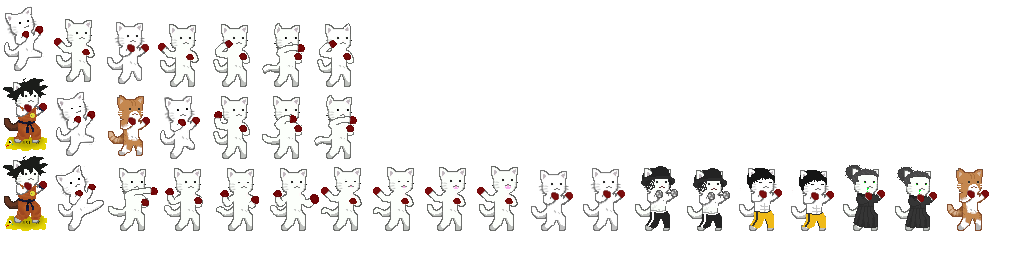
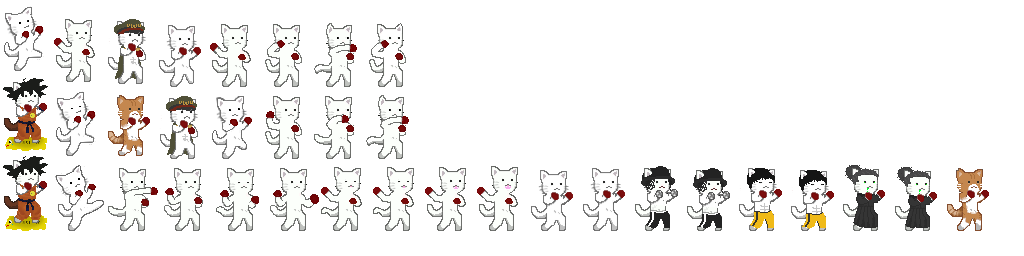
he cambiado cosas pero no se

diff --git a/server/src/main/java/game/Juego.java b/server/src/main/java/game/Juego.java
@@ -34,43 +34,50 @@ public class Juego {
                 }
             break;
             //PARA SABER EL PJ QUE SE SELECCIONA
-            case "goku":
-                if(cliente == partida.jugador1.session)
-                    partida.jugador1.send(new Mensaje("GOKU"));
-                else
-                    partida.jugador2.send(new Mensaje("GOKU"));
-                break;
 
-            case "furrie":
+            default:
                 if(cliente == partida.jugador1.session)
-                    partida.jugador1.send(new Mensaje("FURRIE"));
+                    partida.jugador1.send(new Mensaje(mensaje.action));
                 else
-                    partida.jugador2.send(new Mensaje("FURRIE"));
+                    partida.jugador2.send(new Mensaje(mensaje.action));
                 break;
-            case "lee":
-                if(cliente == partida.jugador1.session)
-                    partida.jugador1.send(new Mensaje("LEE"));
-                else
-                    partida.jugador2.send(new Mensaje("LEE"));
-                break;
-            case "jackson":
-                if(cliente == partida.jugador1.session)
-                    partida.jugador1.send(new Mensaje("JACKSON"));
-                else
-                    partida.jugador2.send(new Mensaje("JACKSON"));
-                break;
-            case "pate":
-                if(cliente == partida.jugador1.session)
-                    partida.jugador1.send(new Mensaje("PATE"));
-                else
-                    partida.jugador2.send(new Mensaje("PATE"));
-                break;
-            case "pussolini":
-                if(cliente == partida.jugador1.session)
-                    partida.jugador1.send(new Mensaje("PUSSOLINI"));
-                else
-                    partida.jugador2.send(new Mensaje("PUSSOLINI"));
-                break;
+//            case "goku":
+//                if(cliente == partida.jugador1.session)
+//                    partida.jugador1.send(new Mensaje("GOKU"));
+//                else
+//                    partida.jugador2.send(new Mensaje("GOKU"));
+//                break;
+//
+//            case "furrie":
+//                if(cliente == partida.jugador1.session)
+//                    partida.jugador1.send(new Mensaje("FURRIE"));
+//                else
+//                    partida.jugador2.send(new Mensaje("FURRIE"));
+//                break;
+//            case "lee":
+//                if(cliente == partida.jugador1.session)
+//                    partida.jugador1.send(new Mensaje("LEE"));
+//                else
+//                    partida.jugador2.send(new Mensaje("LEE"));
+//                break;
+//            case "jackson":
+//                if(cliente == partida.jugador1.session)
+//                    partida.jugador1.send(new Mensaje("JACKSON"));
+//                else
+//                    partida.jugador2.send(new Mensaje("JACKSON"));
+//                break;
+//            case "pate":
+//                if(cliente == partida.jugador1.session)
+//                    partida.jugador1.send(new Mensaje("PATE"));
+//                else
+//                    partida.jugador2.send(new Mensaje("PATE"));
+//                break;
+//            case "pussolini":
+//                if(cliente == partida.jugador1.session)
+//                    partida.jugador1.send(new Mensaje("PUSSOLINI"));
+//                else
+//                    partida.jugador2.send(new Mensaje("PUSSOLINI"));
+//                break;
         }
 //        else if (mensaje.action.equals("JUGADA")){
 //            partida.hacerJugada(cliente, new Carta(mensaje.carta));

diff --git a/core/src/com/mygdx/game/Objects/Juego.java b/core/src/com/mygdx/game/Objects/Juego.java
@@ -22,25 +22,25 @@ public class Juego {
                 Cosingas.renderizador.mostrarMensaje("CONECTADO");
                 Cosingas.renderizador.irAPantallaJuego();
                 break;
-            case "GOKU":
+            case "goku":
                 //AQUÍ IRIA EL METODO PARA CAMBIAR LA SKIN DEL PJ
                 System.out.println("AVERESEGOKU");
                 break;
-            case "FURRIE":
+            case "furrie":
                 System.out.println("F U R R I E");
                 break;
-            case "LEE":
-                Cosingas.renderizador.pjSeleccionado("idle");
+            case "lee":
+                Cosingas.renderizador.pjSeleccionado("idlelee");
                 System.out.println("LEE");
                 break;
-            case "JACKSON":
+            case "jackson":
                 System.out.println("JACKSON");
                 break;
-            case "PATE":
-                Cosingas.renderizador.pjSeleccionado("idle");
+            case "pate":
+                Cosingas.renderizador.pjSeleccionado("idlepate");
                 System.out.println("PATE");
                 break;
-            case "PUSSOLINI":
+            case "pussolini":
                 System.out.println("PUSSOLINI");
                 break;
         }

diff --git a/core/src/com/mygdx/game/GameScreen.java b/core/src/com/mygdx/game/GameScreen.java
@@ -20,7 +20,7 @@ public class GameScreen extends BaseScreen {
         super(game);
     }
     Gatito P1 = new Gatito(300, 250, false, Cosingas.renderizador.pj);
-    Gatito P2 = new Gatito(750, 250, true, "base");
+    Gatito P2 = new Gatito(750, 250, true, Cosingas.renderizador.pj);
 
     private Texture background = new Texture("pui.png");
 
